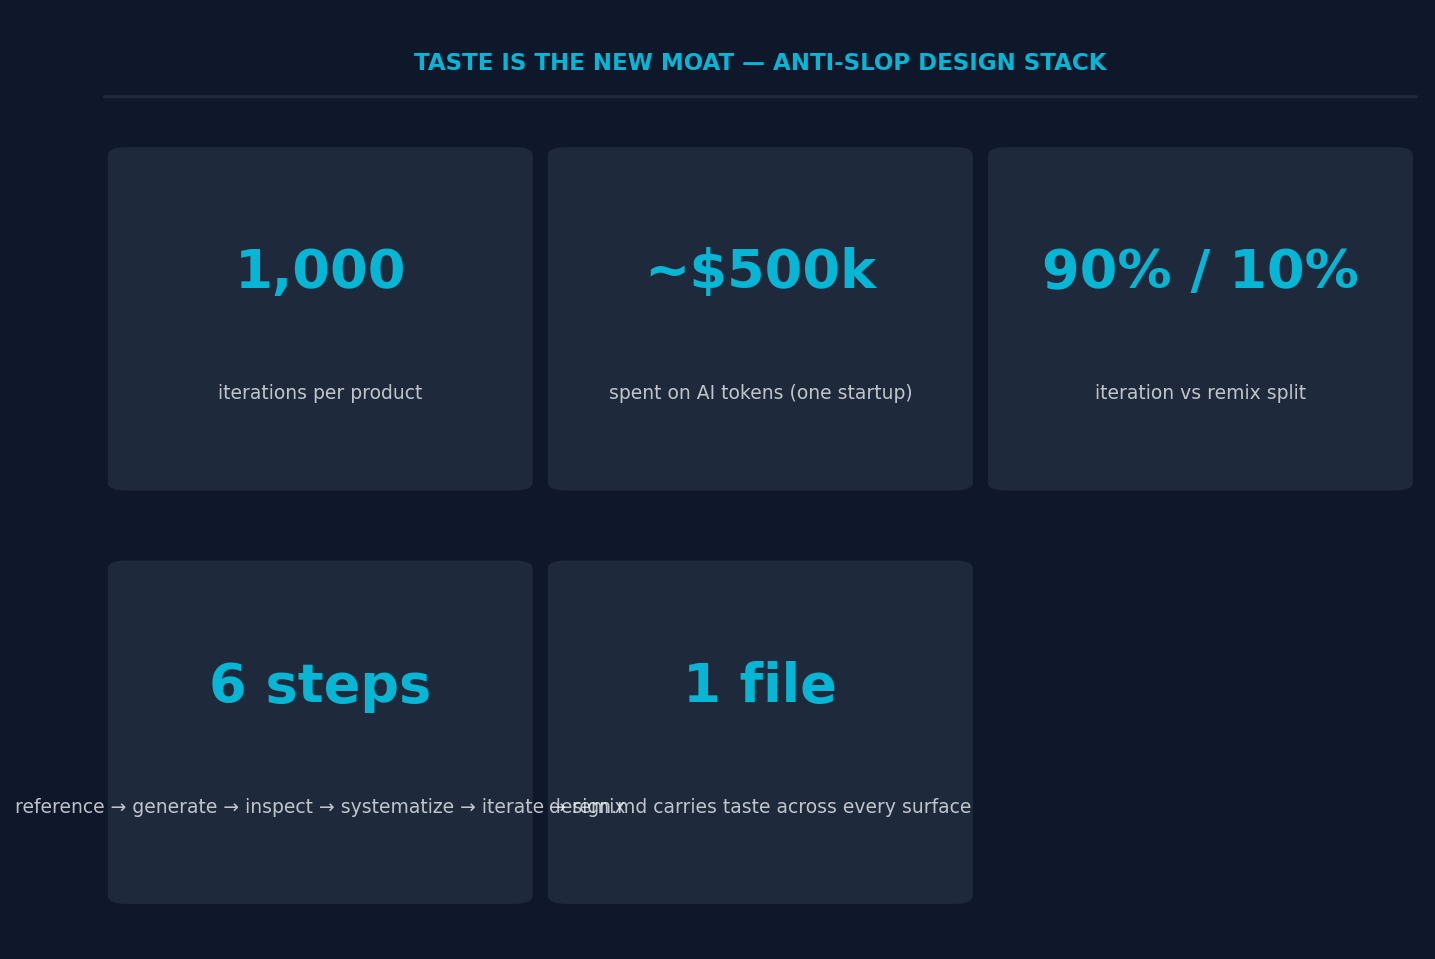
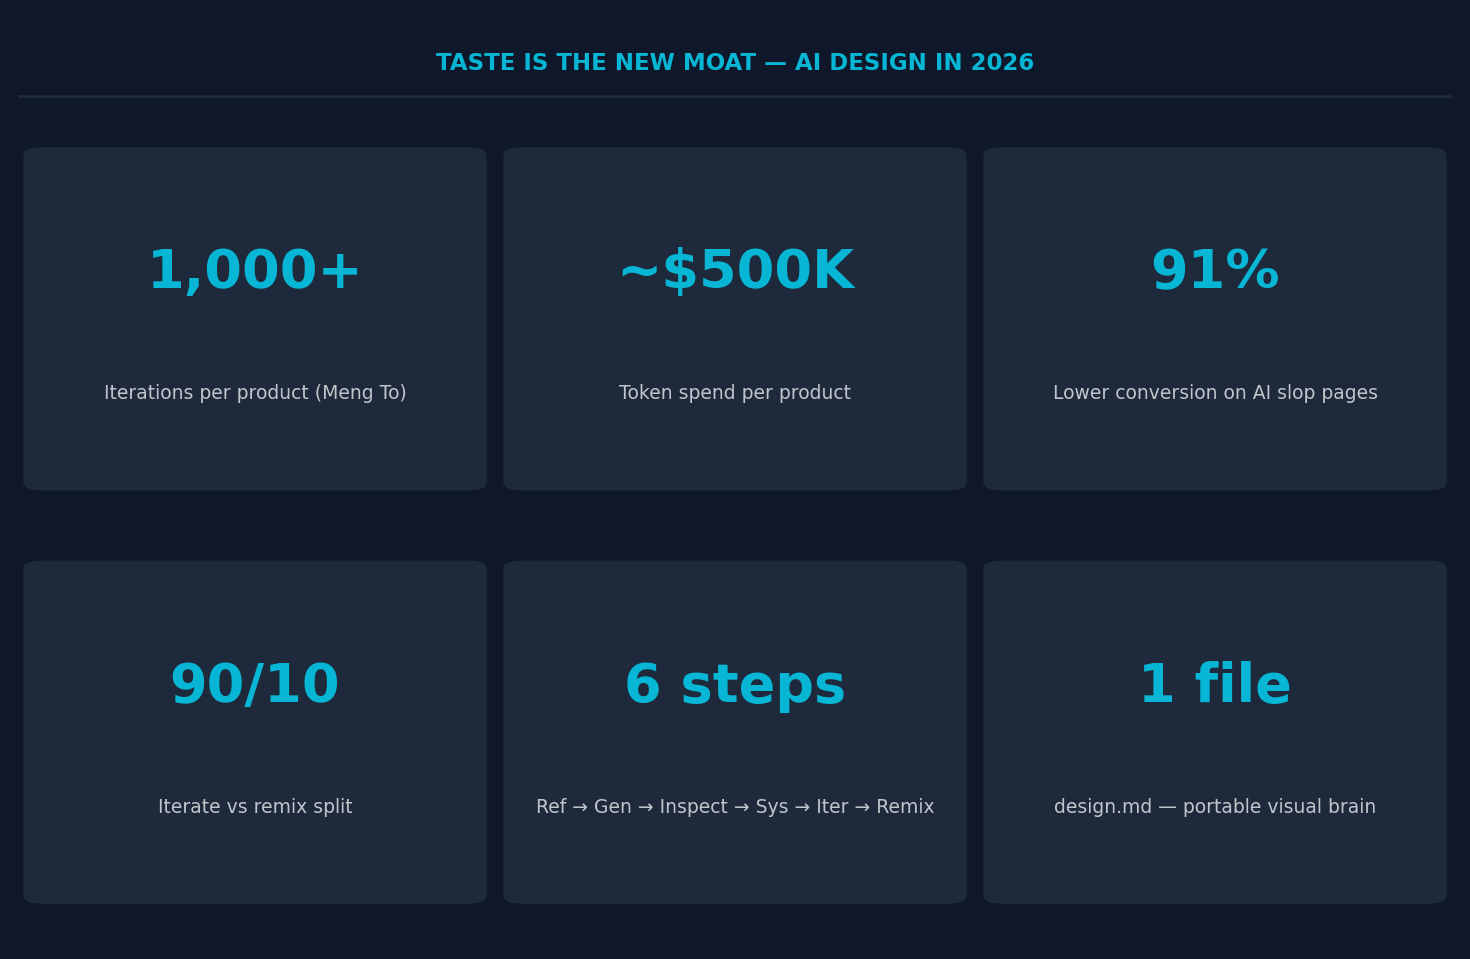
PP-003: ship Taste Is the New Moat (corp-comms-safe edition)
Expands the original draft with two new independent signals from May 2026:
Google open-sourcing DESIGN.md on April 23 (Apache 2.0, compatible with
Claude Code, Cursor, Copilot) and the Taste Skill open-source framework
that launched May 11. Adds 925 Studios' 2026 data: AI 'slop' landing pages
convert 91% lower than non-generic peers, with the AI website builder
market projected at $6.3B.

Reframed to long-form opinion with industry-level attribution throughout.

diff --git a/src/content/posts/pp-003-taste-is-the-new-moat.md b/src/content/posts/pp-003-taste-is-the-new-moat.md
@@ -2,64 +2,80 @@
 title: AI Raised the Baseline. Taste Is the New Moat.
 slug: pp-003-taste-is-the-new-moat
 edition_label: "PP-003"
-category: practical-playbook
+category: opinion
 pestle:
-  - Practical
   - Technological
+  - Social
+  - Economic
 form: long
-published_at: 2026-05-15
-description: Designer Meng To has shipped 1,000 iterations per product using AI and a single design.md file. The workflow operators are stealing from him.
-reading_time: 7
-topic: How to use AI for design and product work without shipping low-quality output
+published_at: 2026-05-30
+description: Meng To has shipped 1,000+ iterations per product against a single design.md file. Google open-sourced the same format in April 2026. AI slop pages convert 91% 
+reading_time: 9
+topic: "AI raised the baseline. Taste is the new moat. Meng To + Google's DESIGN.md + the anti-slop movement."
 sources:
   - "https://youtu.be/oLu32YpiIJw"
+  - "https://www.creativeainews.com/blog/google-design-md-open-source-ai-brand-design-stitch/"
+  - "https://departmentofproduct.substack.com/p/designmd-explained-the-format-reshaping"
+  - "https://www.925studios.co/blog/ai-slop-web-design-guide"
+  - "https://www.tasteskill.dev/"
+  - "https://www.developersdigest.tech/blog/ai-design-slop-and-how-to-spot-it"
 source_layers:
+  - 3
   - 4
+  - 5
 article_scores:
-  - 5.5
+  - 4.8
+  - 4.5
+  - 4.5
 big_number:
-  label: iterations per product
-  value: 1,000
-  context: "Meng To's working rhythm with AI design tools. The bar is not getting easier to clear. It is getting higher."
+  label: Iterations Meng To runs per product against a single design.md file
+  value: 1,000+
+  context: The most-watched walkthrough of an AI-native design workflow in May 2026 is not about prompts. It is about iteration count against a codified system.
 stats:
-  - value: "1,000"
-    label: "iterations Meng runs per product"
-  - value: "90% / 10%"
-    label: "split between iteration (refinement) and remix (new mediums)"
-  - value: "~$500k"
-    label: "spent on AI tokens building one current startup"
+  - value: "1,000+"
+    label: "Iterations per product (Meng To)"
+  - value: "~$500K"
+    label: "Token spend per product (Meng To)"
+  - value: "91%"
+    label: "Lower conversion on AI slop pages"
+  - value: "90 / 10"
+    label: "Iterate vs remix split"
   - value: "6 steps"
-    label: "reference, generate, inspect, systematize, iterate, remix"
-  - value: "1 file"
-    label: "design.md — the portable visual brain"
+    label: "Reference → Generate → Inspect → Systematize → Iterate → Remix"
 infographic_path: "/posts/pp-003-taste-is-the-new-moat-infographic.png"
 infographic_type: by_the_numbers
 ---
 
 ## Context
 
-Generative AI made it possible for any operator to ship a slick landing page or a polished design system. The unintended effect: every output looks the same. Designer Meng To, who has spent close to half a million dollars on AI tokens building products, argues that taste and a systematized workflow — not access to better models — separate work that converts from work that disappears into the feed.
+Three signals from the past 30 days converge on one finding most teams have not yet acted on. Designer Meng To, who has spent close to $500K on AI tokens building products, published a workflow centered on a single file — design.md — that he iterates 1,000-plus times per product. Google open-sourced a near-identical format (DESIGN.md, Apache 2.0) on April 23, 2026, originally built for its Stitch design tool and consumable by Claude Code, Cursor, and Copilot at launch. And the Taste Skill open-source framework arrived in May with the same goal — give AI agents explicit taste constraints. The reason all three landed in the same month: AI lowered the cost of producing design output to near zero, which raised — not lowered — the bar for what counts as work that converts. Generic AI-generated landing pages already record 91% lower conversion rates than non-generic peers. The moat has moved from access to taste.
 
-## Purple Gradients Are the New AI Slop
+## Three Signals, Same Conclusion: The Bar Just Rose
 
-Meng To, the designer behind Design+Code and a former Apple designer, has spent close to half a million dollars on AI tokens building products with the current generation of design tools. His diagnosis is that the problem is not the models. It is the workflow. Most people are stuck on the first generation step — type a prompt, accept the result, move on — and shipping the same cookie-cutter output as everyone else.
+Meng To, the designer behind Design+Code and a former Apple designer, sat with Greg Isenberg on May 6 and walked through what he has actually been doing with the current generation of AI tools. The numbers are unusual. Close to half a million dollars spent on AI tokens to build one product. 1,000-plus iterations per surface. A workflow that has compressed from six tools to one file — design.md — that he iterates against and remixes outward to landing page, motion design, slide decks, social cards, and short-form video. The interview is not a tutorial. It is an existence proof that what separates output that converts from output that disappears into the feed is not access to the tools. It is the depth and patience of iteration against a codified system.
 
-The fix is a single file: design.md. Google released the format publicly this year, and operators are using it as the blueprint that carries a curated visual system across every surface — landing page, motion design, slide decks, social cards, marketing video frames. One taste-laden file, infinite consistent outputs.
+On April 23, 2026, Google open-sourced a near-identical format — DESIGN.md — under Apache 2.0, originally built for its Stitch design tool. The spec pairs precise design values (color tokens, typography scales, spacing) with human-readable context so that AI coding agents can produce brand-consistent output without re-briefing. At launch, the format is compatible with Claude Code, Cursor, and Copilot, and the accompanying CLI handles validation, comparison, and export to Tailwind CSS or W3C DTCG. The release reframes what design.md is. It is not Meng To's personal trick. It is a candidate for the open standard the design tooling stack settles on.
+
+Two weeks later, the Taste Skill framework launched as an open-source set of skill files that give AI coding agents explicit taste constraints — the inverse problem from the same direction. Three independent signals in 30 days, all aimed at the same gap: AI tools produce generic output by default because their training data is generic, and the way out is opinionated specification, not better prompts.
+
+The economic stakes have data behind them now. 925 Studios' 2026 analysis of what it calls 'distributional convergence' — the tendency of LLM-driven design tools to default to the most common patterns in their training corpus — documents the result. Inter font. Purple-to-blue gradients. Oversized hero sections with vague headlines. Cards with uniform 16px border radius. AI slop landing pages, the report finds, record 91% lower conversion rates than non-generic peers. The AI website builder market is projected at $6.3 billion in 2026, which means the supply of slop is being industrialized at the same time the cost of generic is being measured.
 
 ## By the Numbers
 
-![By the Numbers: How to use AI for design and product work without shipping low-quality output](/posts/pp-003-taste-is-the-new-moat-infographic.png)
+![By the Numbers: AI raised the baseline. Taste is the new moat. Meng To + Google's DESIGN.md + the anti-slop movement.](/posts/pp-003-taste-is-the-new-moat-infographic.png)
 
-## Iterate 90% of the Time. Remix 10%.
+## What Actually Changed — And What to Do About It
 
-The 6-step workflow is what separates Meng's output from the generic AI baseline. Reference: collect a tight set of designs you actually admire (not a generic Pinterest board). Generate: prompt with the references, not just the goal. Inspect: pull apart what the model produced and identify the three or four moves that made it work. Systematize: codify those moves into design.md — colors, type ratios, motion principles, copywriting voice, the specific kind of imperfection that makes the output feel human.
+The conventional read of AI in design — that the tools lowered the bar so a one-person team can ship like a ten-person team — is half right. AI did remove the friction between idea and first draft; work that used to take three days now takes 30 minutes. But the same compression that benefits the operator also benefits every other operator, which means the floor rose for everyone. What used to count as 'a good landing page' is now what AI ships in a single prompt. The new bar is whatever takes 1,000 iterations against a system — because that is what differentiated work looks like when the default is free. Meng To's own framing of the moment is direct: AI is not making him lazier; AI is making him work more.
 
-Then comes the part most people skip. Iterate: 1,000 small refinements against the design.md, each one tuning a detail rather than starting over. Remix: take the systematized design and adapt it to new mediums — the landing page becomes a slide, the slide becomes a 30-second motion piece, the motion piece becomes a paid ad. Meng's rule: 90% of the work is iteration, 10% is remix. The split inverts what most people do, which is generate-and-publish.
+The 6-step workflow Meng To codifies is unflashy on purpose. Reference: collect a tight set of designs to actually admire — not a generic Pinterest board, a curated set of three to five examples. Generate: prompt with the references, not just the goal. Inspect: pull apart what the model produced and identify the three or four moves that made it work. Systematize: codify those moves into design.md — the color tokens, type ratios, motion principles, copywriting voice, the specific kind of imperfection that makes the output feel human-made. Iterate: 1,000 small refinements against design.md, each one tuning a detail rather than starting over. Remix: take the systematized look and adapt it to the next medium. The landing page becomes a slide. The slide becomes a 30-second motion piece. The motion piece becomes a paid ad. One taste-laden file, infinite consistent outputs.
 
-The shift in mental model matters more than the tool stack. AI did not eliminate the designer's job. It removed the friction between idea and first draft, which means the work that used to take three days now takes 30 minutes — and the bar for what counts as 'good' rises proportionally. Meng's framing: 'AI is not making me lazier. AI is making me work more.' The operators who treat AI as a labor-saving device produce slop. The operators who treat it as a magnification of their taste produce something distinguishable.
+Meng To's split between iterate and remix is 90 to 10. Most operators do the inverse — they generate, generate, generate, hoping volume produces quality, and only occasionally port a winning piece to a new medium. The data on AI slop suggests that pattern is now economically penalized. Distributional convergence is not just an aesthetic problem; it is a measurable conversion problem, and the cost of it scales with how much you publish. Pick one strong opinion and commit to it. A loud color. A bold type choice. An uncommon layout. Photography or typography that carries personality. Then defend the choice across every surface by writing it down — in design.md or whatever your equivalent is — so the system enforces consistency even when individual prompts drift.
 
-The common failure modes are concrete. Design drift — the output looking less like what you started with after each prompt — is the symptom of skipping the systematize step. Focusing on chat instead of decisions wastes the iteration budget. Letting AI 'do everything' without human inspection produces purple-gradient slop. The pattern that works is the opposite: AI handles volume, humans handle taste. Volume without taste is noise. Taste without volume is rare. The combination is the moat.
+Google open-sourcing DESIGN.md matters less for the format itself and more for what it signals. The biggest distributor of generic design output on the planet — Google's own Stitch tool, the broader AI website builder ecosystem, every Copilot and Cursor session producing UI — is moving toward consumable taste files because the market has noticed the slop. Within 12 months, design.md or its successor is likely to be standard tooling, the way Tailwind config files became standard. Operators who have already started codifying their visual system will move faster than the ones who treat AI as a labor-saving device. Volume without taste is noise. Taste without volume is rare. The combination is the moat, and it is being built one file at a time.
 
 ## Further Reading
 
-- [My AI Design Workflow That Doesn't Ship Slop](https://youtu.be/oLu32YpiIJw) — 50-minute conversation walking through design.md, the 6-step reference/generate/inspect/systematize/iterate/remix process, and live demos of the workflow on a real landing-page build.
+- [My AI Design Workflow That Doesn't Ship Slop](https://youtu.be/oLu32YpiIJw) — 50-minute conversation walking through the 6-step process and live demos on a real landing page.
+- [Google DESIGN.md: AI-Readable Brand Design Format](https://www.creativeainews.com/blog/google-design-md-open-source-ai-brand-design-stitch/) — April 23, 2026 open-source release. Apache 2.0. Compatible with Claude Code, Cursor, Copilot.
+- [AI Slop Web Design: Complete Guide to Spotting and Fixing Generic Websites](https://www.925studios.co/blog/ai-slop-web-design-guide) — The 91% lower conversion data and the distributional-convergence framing live here.
